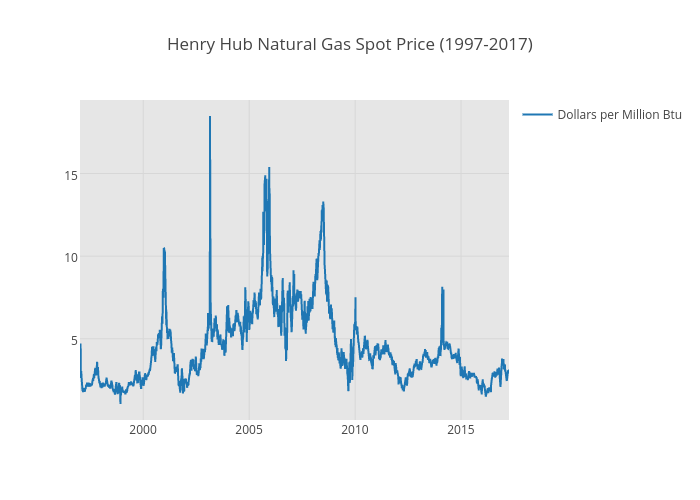
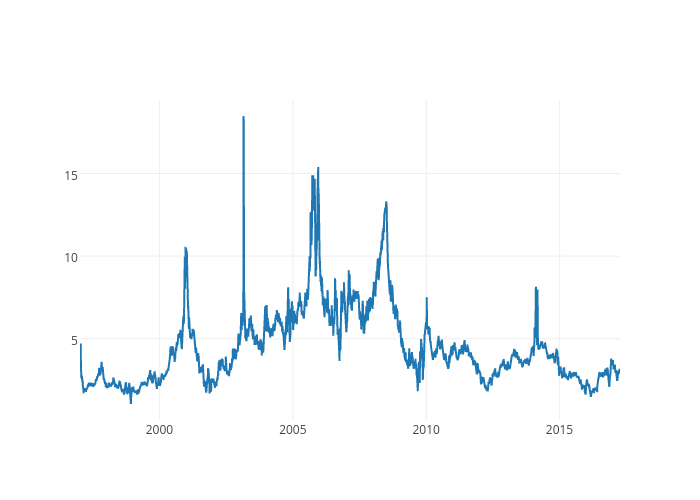
changed python graph to use csv lib, not pandas or numpy - refs #3

diff --git a/graphMonthly.py b/graphMonthly.py
@@ -1,23 +1,20 @@
-import pandas as pd
-import numpy as np
 import plotly.plotly as py
 import plotly.graph_objs as go
+import csv
 
-#import data from csv
-df = pd.read_csv('monthly.csv')
-df.head()
-
-trace = go.Scatter(
-                  x = df['Date'], y = df['Price'],
-                  name='Dollars per Million Btu'
-                  )
-layout = go.Layout(
-                  title='Henry Hub Natural Gas Spot Price (1997-2017)',
-                  plot_bgcolor='rgb(230, 230,230)',
-                  showlegend=True
-                  )
-fig = go.Figure(data=[trace], layout=layout)
+price = []
+date = []
+counter = 0
+csv_reader = csv.reader(open('monthly.csv') )
+for row in csv_reader:
+    if counter == 0:
+        counter += 1
+        continue
+    date.append(row[0])
+    price.append(row[1])
+trace = dict(x=date, y=price)
+data = [trace]
 # save as monthly.png
-py.image.save_as(fig, filename='monthly.png')
-# opens in Embed URL
-py.plot(fig, filename='natural-gas-prices-monthly')
+py.image.save_as(data, filename='monthly.png')
+#opens in Embed URL
+py.plot(data, filename='natural-gas-prices-monthly')

diff --git a/graphDaily.py b/graphDaily.py
@@ -1,23 +1,20 @@
-import pandas as pd
-import numpy as np
 import plotly.plotly as py
 import plotly.graph_objs as go
+import csv
 
-#import data from csv
-df = pd.read_csv('daily.csv')
-df.head()
-
-trace = go.Scatter(
-                  x = df['Date'], y = df['Price'],
-                  name='Dollars per Million Btu'
-                  )
-layout = go.Layout(
-                  title='Henry Hub Natural Gas Spot Price (1997-2017)',
-                  plot_bgcolor='rgb(230, 230,230)',
-                  showlegend=True
-                  )
-fig = go.Figure(data=[trace], layout=layout)
+date = []
+price = []
+counter = 0
+csv_reader = csv.reader(open('daily.csv'))
+for row in csv_reader:
+    if counter == 0:
+        counter += 1
+        continue
+    date.append(row[0])
+    price.append(row[1])
+trace = dict(x = date, y = price)
+data = [trace]
 # save as daily.png
-py.image.save_as(fig, filename='daily.png')
+py.image.save_as(data, filename='daily.png')
 # opens in Embed URL
-py.plot(fig, filename='natural-gas-prices-daily')
+py.plot(data, filename='natural-gas-prices-daily')
